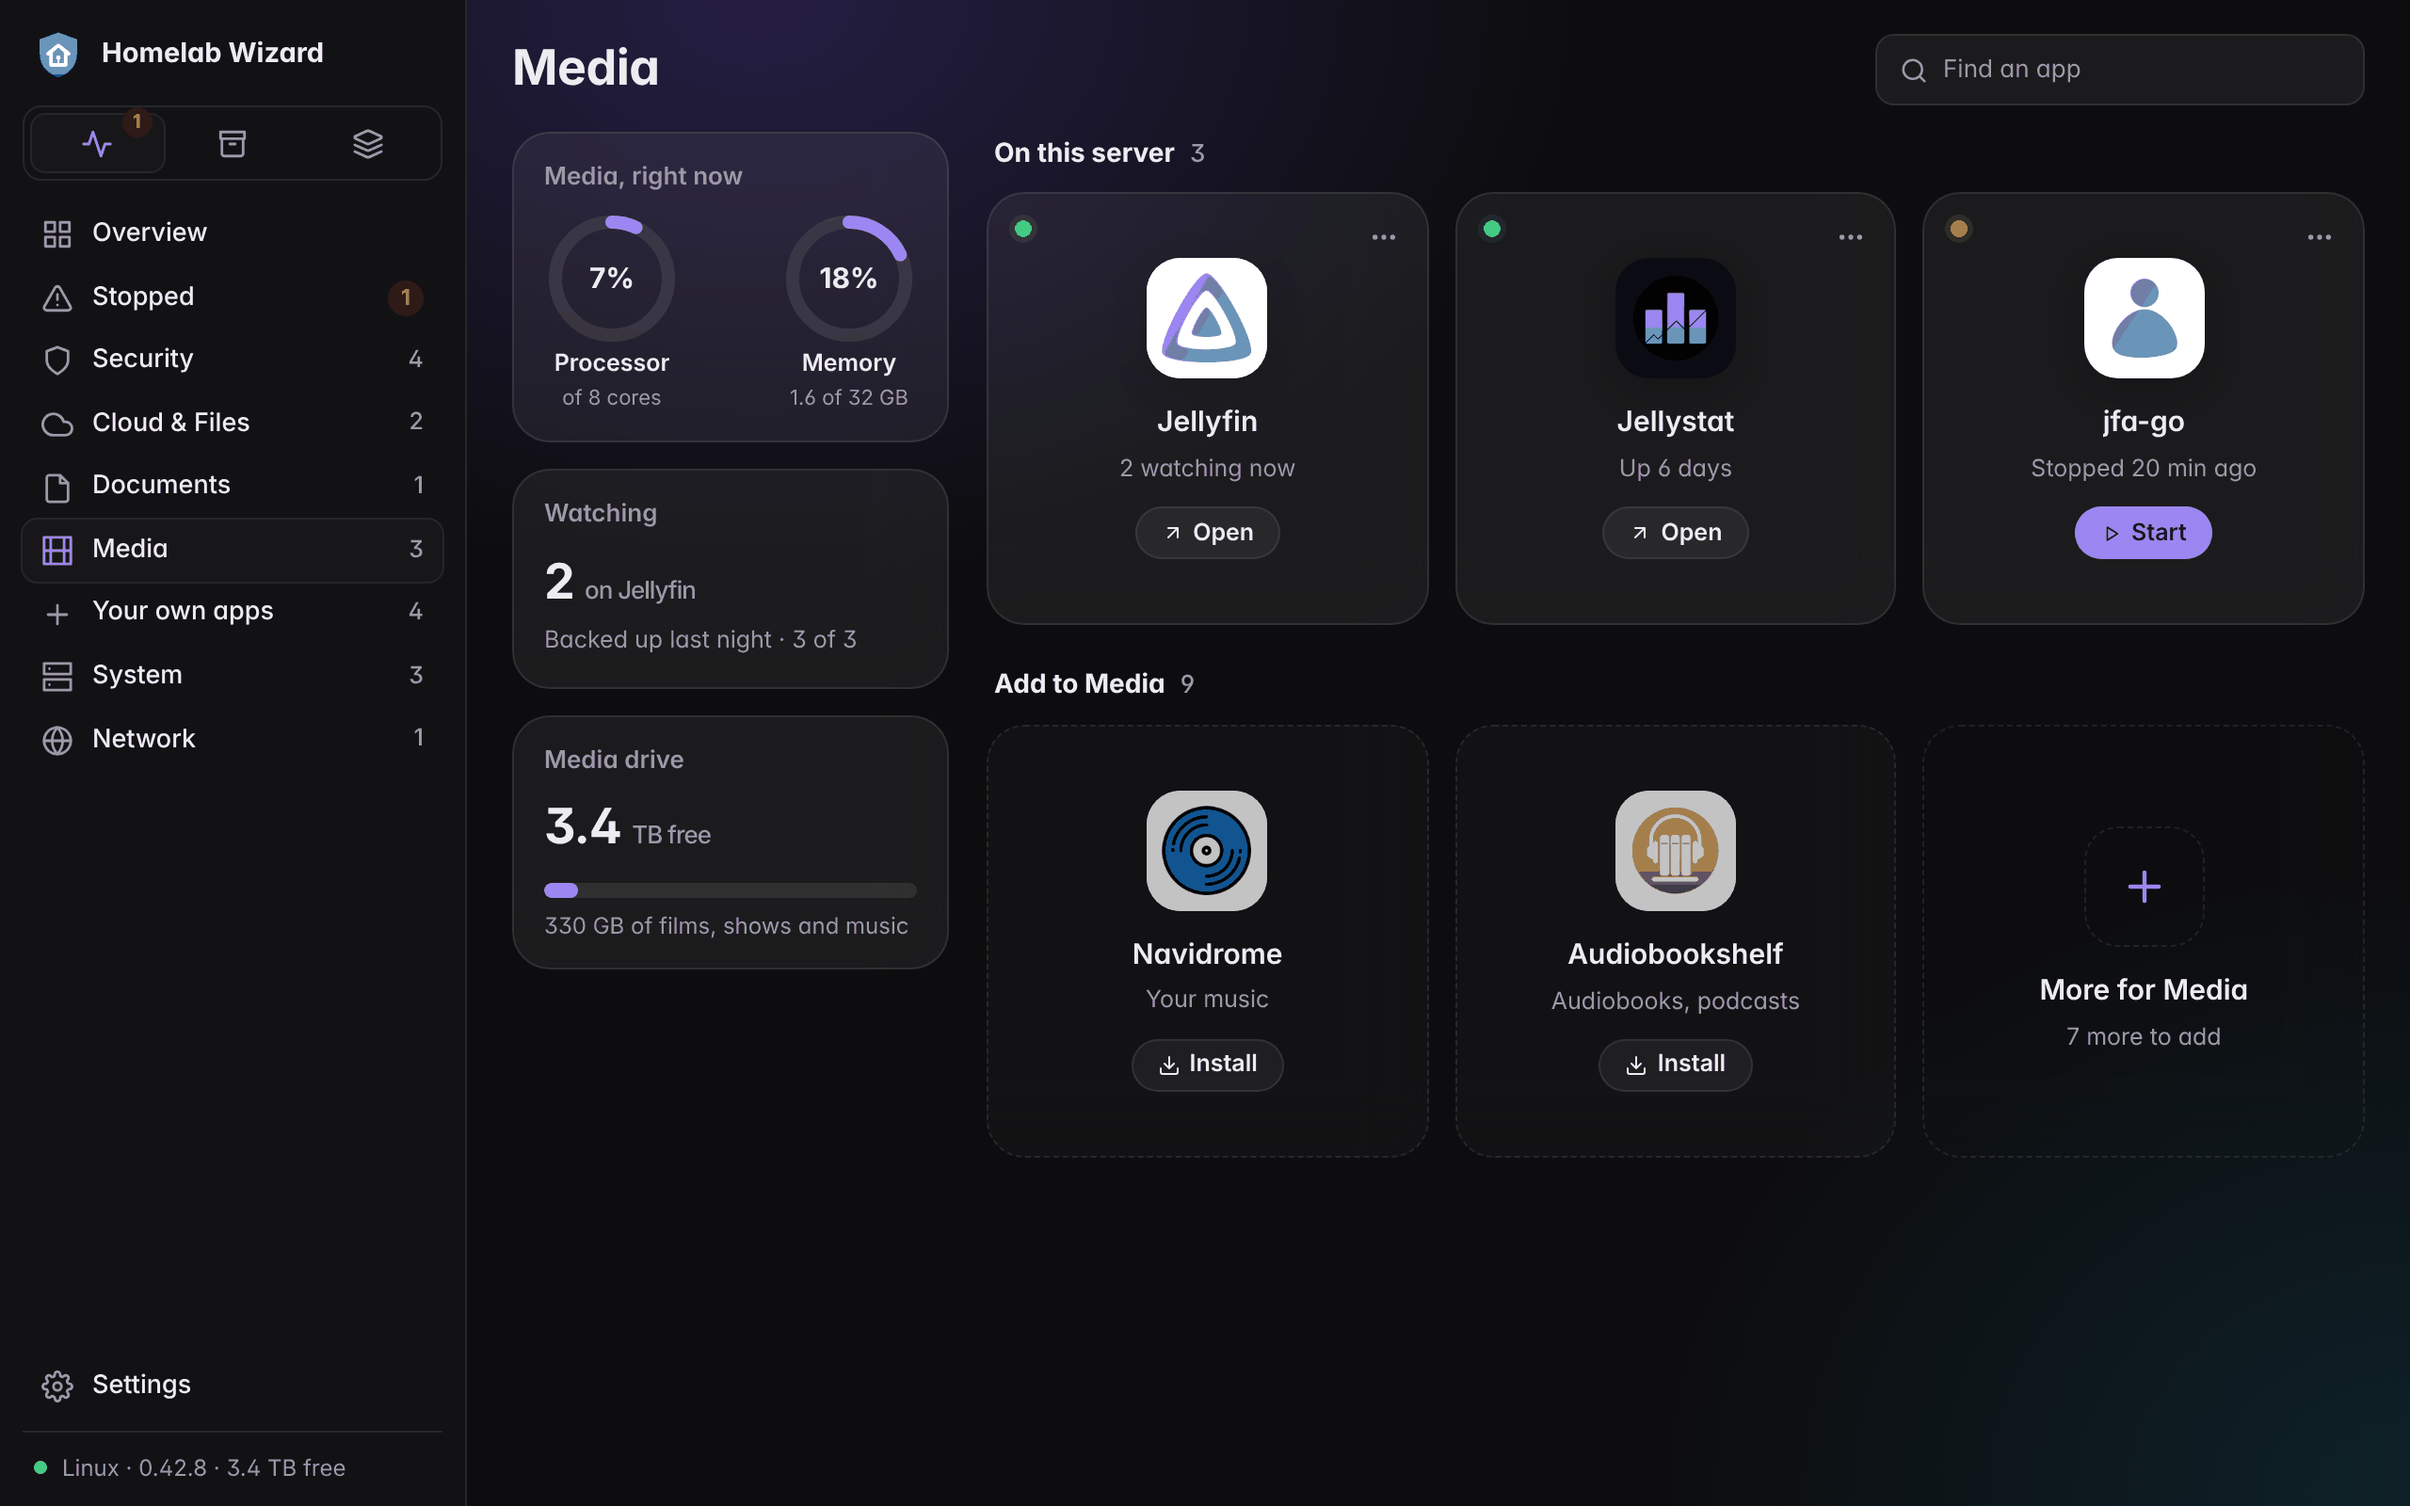
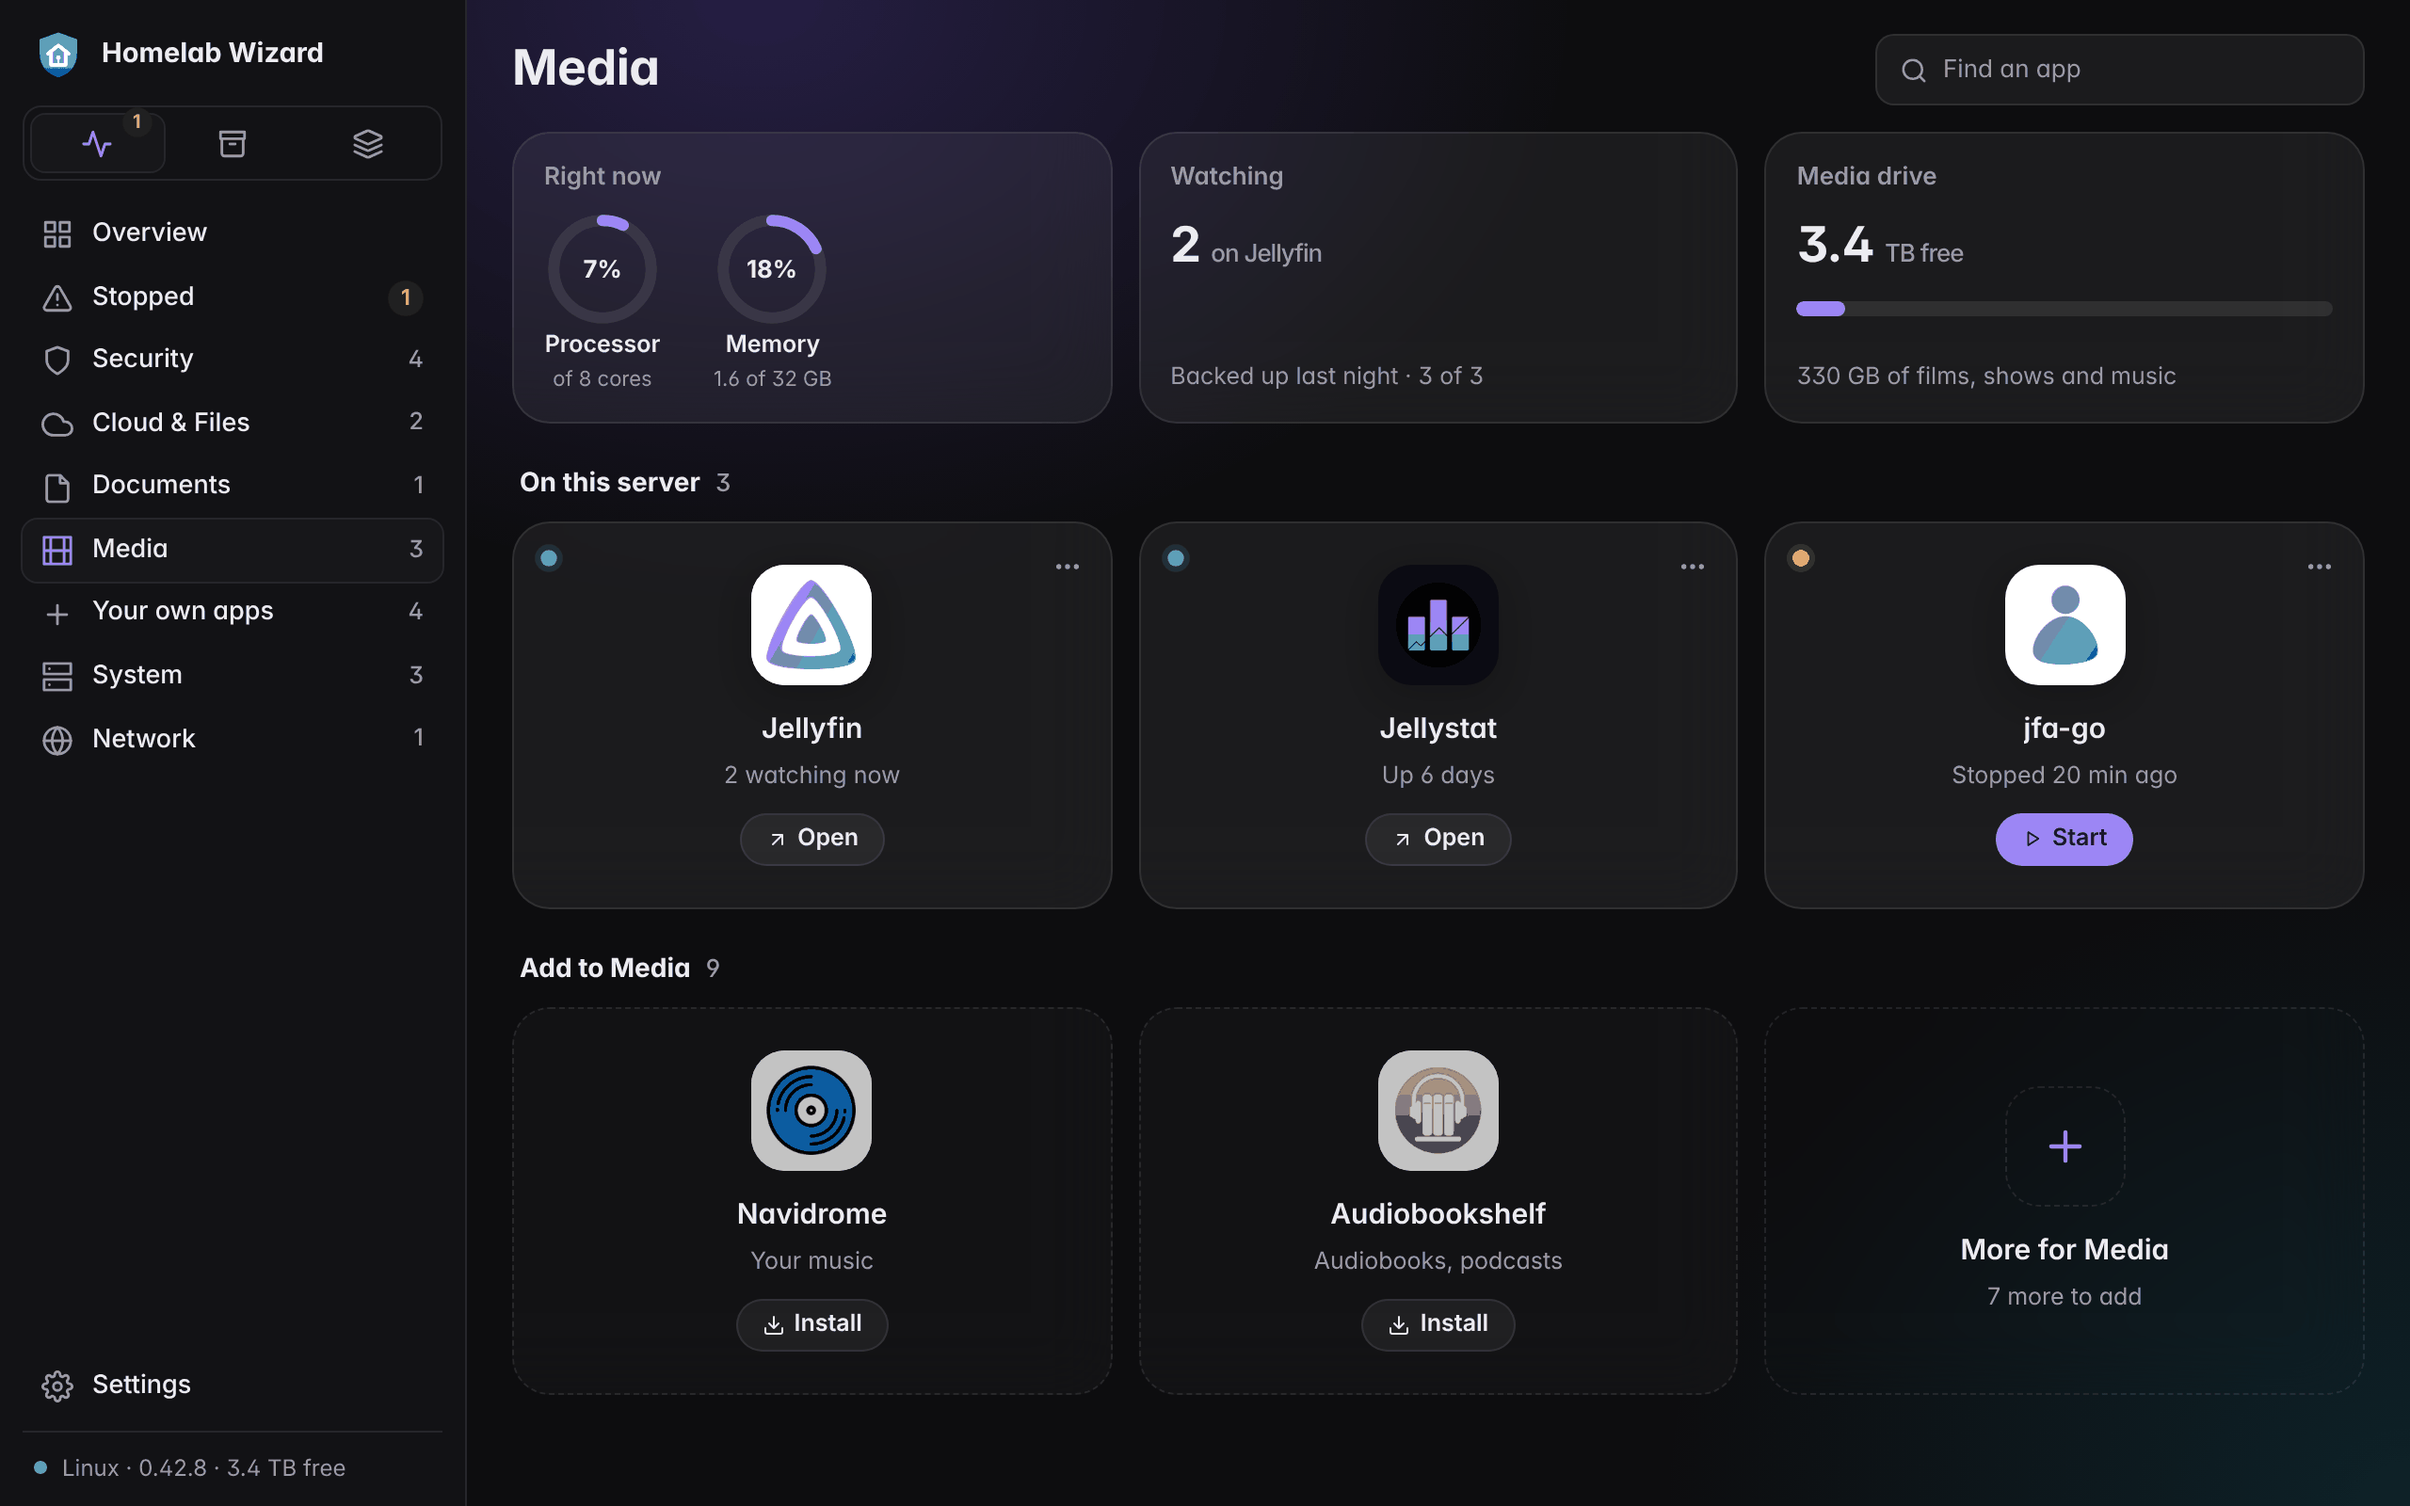
A category's widgets in a row of three on top, equal size
The tester, Nov 25: the widgets in a column beside the sidebar didn't
line up and read as actions. They're now three equal boxes across the
top (right now, watching, the media drive), with On this server and Add
to Media under them. Redesign.md and W5a say the same.

Claude-Session: https://claude.ai/code/session_019rTjse5SCV1XTGeNN8Q41b

diff --git a/docs/Redesign.md b/docs/Redesign.md
@@ -155,7 +155,7 @@ How far the phone's page (`homelab serve`) can go toward the Homelab app, drawn 
 
 The owner, Nov 25: click a category in Status' menu (Network, Media, …) and get its apps as tiles, three across, with CasaOS's dashboard as the reference (its ideas only, never its look, words or pictures; its own screenshot is in its repository's README). After two passes the owner liked this one: **the icon is the hero**, the tiles are light and see-through over a soft backdrop, and the live numbers live in widgets rather than on every tile.
 
-<picture><source media="(prefers-color-scheme: dark)" srcset="images/redesign/web-category-dark.png"><img alt="Media's page on a tablet: widgets down the left (processor and memory rings, two watching on Jellyfin, the media drive's free space); On this server, three big-icon tiles (Jellyfin and Jellystat running with Open, jfa-go stopped with Start); Add to Media, two lighter tiles with Install and a More for Media tile" src="images/redesign/web-category.png"></picture>
+<picture><source media="(prefers-color-scheme: dark)" srcset="images/redesign/web-category-dark.png"><img alt="Media's page on a tablet: three equal widgets in a row on top (processor and memory rings, two watching on Jellyfin, the media drive's free space); On this server, three big-icon tiles (Jellyfin and Jellystat running with Open, jfa-go stopped with Start); Add to Media, two lighter tiles with Install and a More for Media tile" src="images/redesign/web-category.png"></picture>
 
 <p>
 <picture><source media="(prefers-color-scheme: dark)" srcset="images/redesign/web-category-duo-dark.png"><img alt="Media's page on the iPhone Duo unfolded upright: three tiles across, the tab bar at the foot" src="images/redesign/web-category-duo.png" width="300"></picture>
@@ -163,7 +163,7 @@ The owner, Nov 25: click a category in Status' menu (Network, Media, …) and ge
 </p>
 
 - **A tile:** the app's logo, big (64 px; 56 on a phone) and centred; its name; one short live line (*2 watching now*, *Up 6 days*, *Stopped 20 min ago*); one small button, **Open** (or **Start**, in the accent, when stopped); a status dot top left (green running, amber stopped); ⋯ top right for the rest (Its page, Restart, Stop, Logs, Remove). Nothing else on the tile.
-- **Widgets** (a slim column on the left on a tablet or wide window; under the title on a phone): the category's processor and memory as rings, what it's doing now (*2 watching on Jellyfin*), its drive. Each category picks its widgets from data the computer already has (`StatusBoard`'s `usage` and `storage`, an app's own API where the homelab already reads it); a widget with no data isn't drawn.
+- **Widgets: a row of three, equal size, on top** (the tester, Nov 25: a column beside the sidebar *"makes you think the left column are actions"* and didn't line up), then the apps under them; on a phone they come under the title, one across. They show: the category's processor and memory as rings, what it's doing now (*2 watching on Jellyfin*), its drive. Each category picks its widgets from data the computer already has (`StatusBoard`'s `usage` and `storage`, an app's own API where the homelab already reads it); a widget with no data isn't drawn.
 - **On this server**, then **Add to <category>**: the apps not installed, faded with a dashed edge, each with **Install**; the last tile is **More for <category>** (*7 more to add*), opening Choose apps on that category, as CasaOS ends its grid with its app store.
 - **The backdrop:** the page's own colour with two soft glows (violet top left, teal bottom right; lighter by day); tiles and widgets are translucent with a blur, a hairline edge, radius 20.
 - **Every app has a logo** (owner, Nov 25: *"add logos everywhere"*): the catalog's, or for your own apps the app's own icon (below, and `web-loop.md` W17); letters only while none is found.

diff --git a/.claude/prompts/web-loop.md b/.claude/prompts/web-loop.md
@@ -139,7 +139,7 @@ Each item is one pull request unless it says it splits. Tick it here in the same
 
   **Touch targets at least 44 px** in every size; nothing important in the centre fold line of the unfolded Duo in landscape (a card may cross it, a button shouldn't sit on it: keep the two panes' gap there).
 - [ ] **W5. Status on the phone as `web-status.png`.** The stopped app first, with Start, Logs and Its page; Backups and the machine side by side; each category one row. The machine's card says what's true of *this* machine: a server with no battery says the disks and the next update (not *Plugged in*); a Mac or laptop keeps power. Name it from the computer's own facts (`core.Machine`, `internal/host`), never from the phone. The *Alerts on this phone* offer waits for W9.
-- [ ] **W5a. A category's page: the apps as a home screen** (the owner, Nov 25, after two passes: *"oh i actually like that"*). Build it exactly as `docs/Redesign.md` › *A category's page* and `web-category.png`, `web-category-duo.png`, `web-category-phone.png`: big-icon tiles three across (two on a phone), one live line, one small button and ⋯, a status dot; widgets in a slim left column; *On this server* then *Add to <category>* (faded, Install) ending with a *More for <category>* tile; translucent tiles over the soft backdrop. CasaOS's dashboard is the reference for feel only (its README's screenshot): never its look, words, wallpaper or pictures. Status' Overview stays. Split:
+- [ ] **W5a. A category's page: the apps as a home screen** (the owner, Nov 25, after two passes: *"oh i actually like that"*). Build it exactly as `docs/Redesign.md` › *A category's page* and `web-category.png`, `web-category-duo.png`, `web-category-phone.png`: big-icon tiles three across (two on a phone), one live line, one small button and ⋯, a status dot; widgets as a row of three equal boxes on top, the apps under them (the tester, Nov 25: never a column beside the sidebar, where they read as actions); *On this server* then *Add to <category>* (faded, Install) ending with a *More for <category>* tile; translucent tiles over the soft backdrop. CasaOS's dashboard is the reference for feel only (its README's screenshot): never its look, words, wallpaper or pictures. Status' Overview stays. Split:
   - **(a) The page and the tiles for what's installed:** from Status' own data; the live line from what the computer already knows (uptime, stopped since, Jellyfin's sessions where the homelab already reads its API). No new call. The computer gets the same page (the screens are shared): lane R's files, so take them only when no R pull request has `web/src/screens/status.ts` or `web/src/status/` open.
   - **(b) The widgets:** rings from `StatusBoard`'s `usage` for the category's containers, the drive from `storage`; each category's widget list in one place, with a test that a widget with no data isn't drawn.
   - **(c) The tiles for what isn't installed:** the catalog's apps in that category. On the phone's page this needs a read-only catalog call in `phoneMethods` (**Needs Q's review: yes**).
